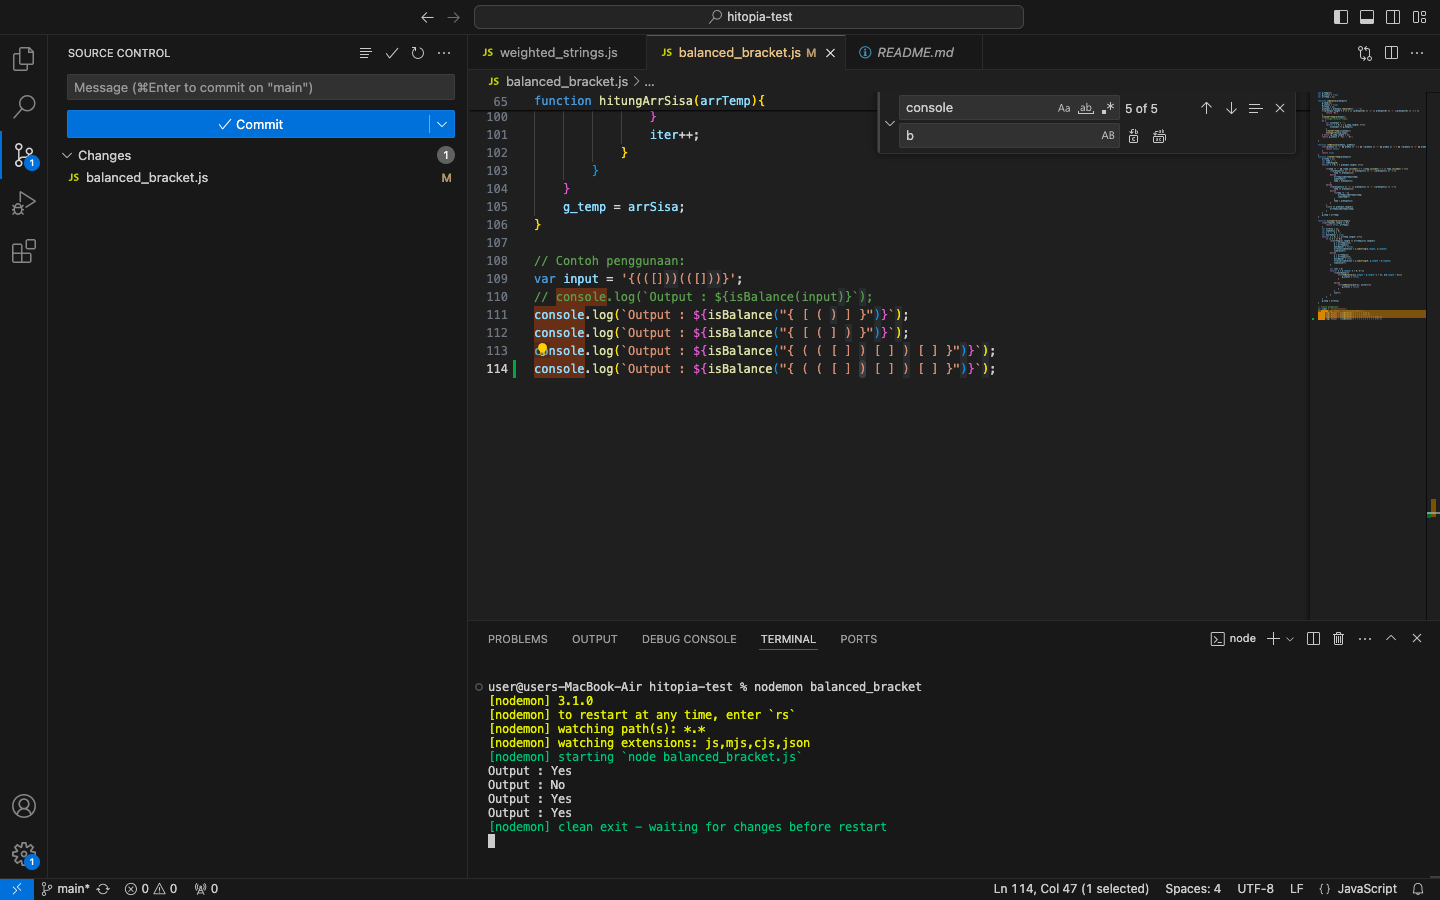
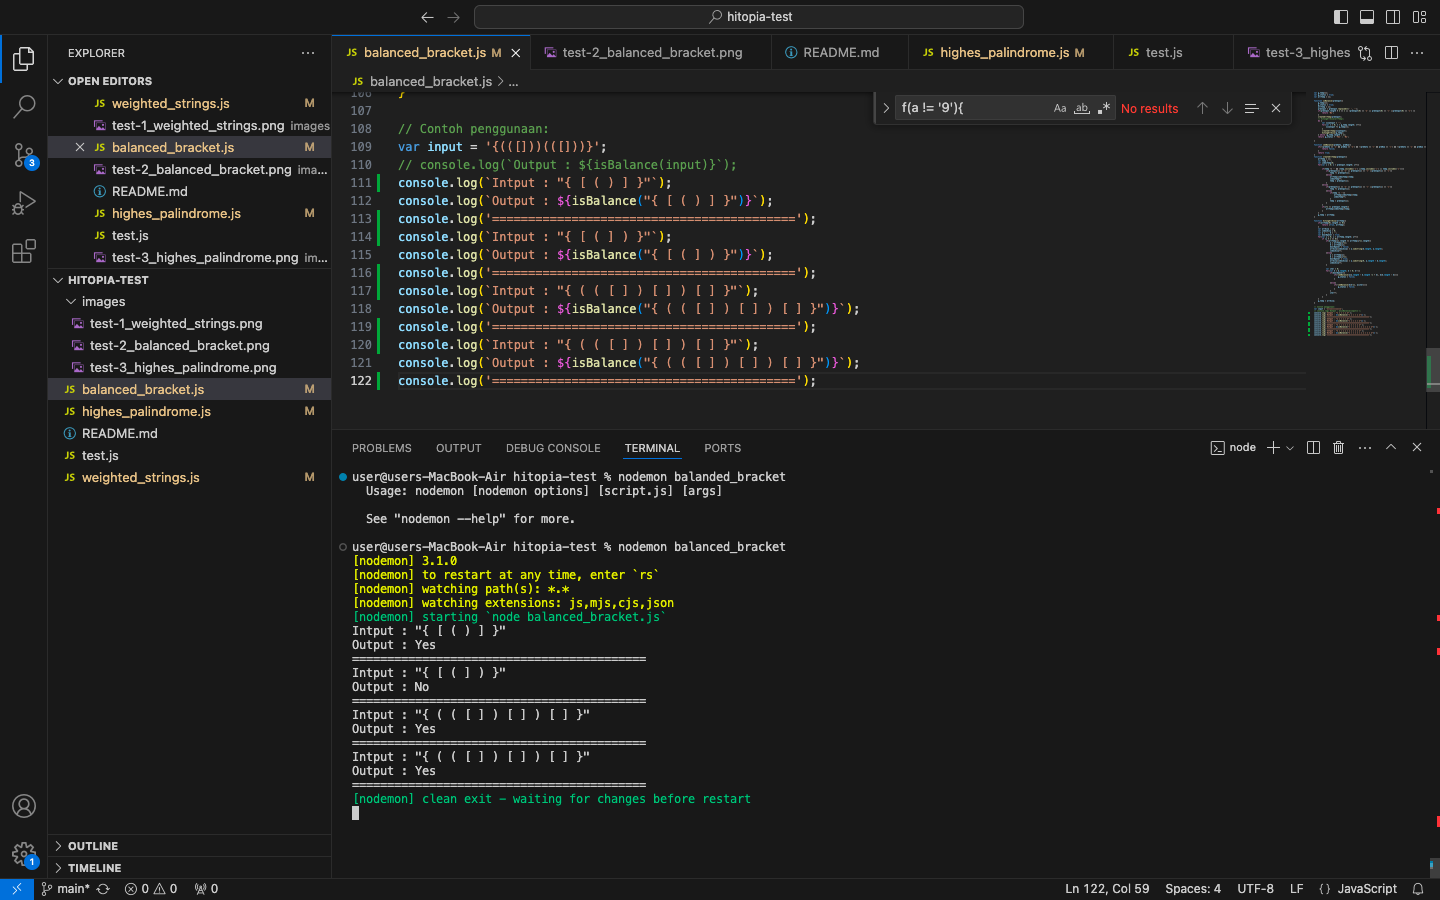
test capture

diff --git a/weighted_strings.js b/weighted_strings.js
@@ -39,9 +39,16 @@ function weightedStrings(strInput, arrQueries) {
 // Contoh penggunaan:
 const strInput = "abbcccd";
 const arrQueries = [1,3,9,8];
-const substrings = weightedStrings(strInput, arrQueries);
-console.log("Output : ", substrings);
+var input1 = ["abbcccd", [1,3,9,8]];
+var input2 = ["bbccc", [3,6,7,9]];
+var input3 = ["gghiiijk", [8,9,12,15]];
+
+console.log("Intput : ", input1);
+console.log("Output : ", weightedStrings(input1[0], input1[1]));
 console.log('==========================================');
-console.log(weightedStrings('bbccc', [3,6,7,9]));
+console.log("Intput : ", input2);
+console.log("Output : ", weightedStrings(input2[0], input2[1]));
 console.log('==========================================');
-console.log(weightedStrings('gghiiijk', [8,9,12,15]));
+console.log("Intput : ", input3);
+console.log("Output : ", weightedStrings(input3[0], input3[1]));
+console.log('==========================================');

diff --git a/balanced_bracket.js b/balanced_bracket.js
@@ -108,7 +108,15 @@ function hitungArrSisa(arrTemp){
 // Contoh penggunaan:
 var input = '{(([]))(([]))}';
 // console.log(`Output : ${isBalance(input)}`);
+console.log(`Intput : "{ [ ( ) ] }"`);
 console.log(`Output : ${isBalance("{ [ ( ) ] }")}`);
+console.log('==========================================');
+console.log(`Intput : "{ [ ( ] ) }"`);
 console.log(`Output : ${isBalance("{ [ ( ] ) }")}`);
+console.log('==========================================');
+console.log(`Intput : "{ ( ( [ ] ) [ ] ) [ ] }"`);
 console.log(`Output : ${isBalance("{ ( ( [ ] ) [ ] ) [ ] }")}`);
+console.log('==========================================');
+console.log(`Intput : "{ ( ( [ ] ) [ ] ) [ ] }"`);
 console.log(`Output : ${isBalance("{ ( ( [ ] ) [ ] ) [ ] }")}`);
+console.log('==========================================');

diff --git a/highes_palindrome.js b/highes_palindrome.js
@@ -150,10 +150,11 @@ function highesPalindrome2(nilaiawal, k){
 
 
 // Contoh penggunaan:
-var input = ['3943', '1'];
+// var input = ['3943', '1'];
 // var input = ['932239', '2'];
 // var input = ['35343', '2'];
 // var input = ['35343', '3'];
+var input = ['35343', '4'];
 console.log('==========================================');
 console.log(`Input : ${input[0]}, ${input[1]}`);
 console.log('Output : ' + highesPalindrome(input[0], input[1]));
